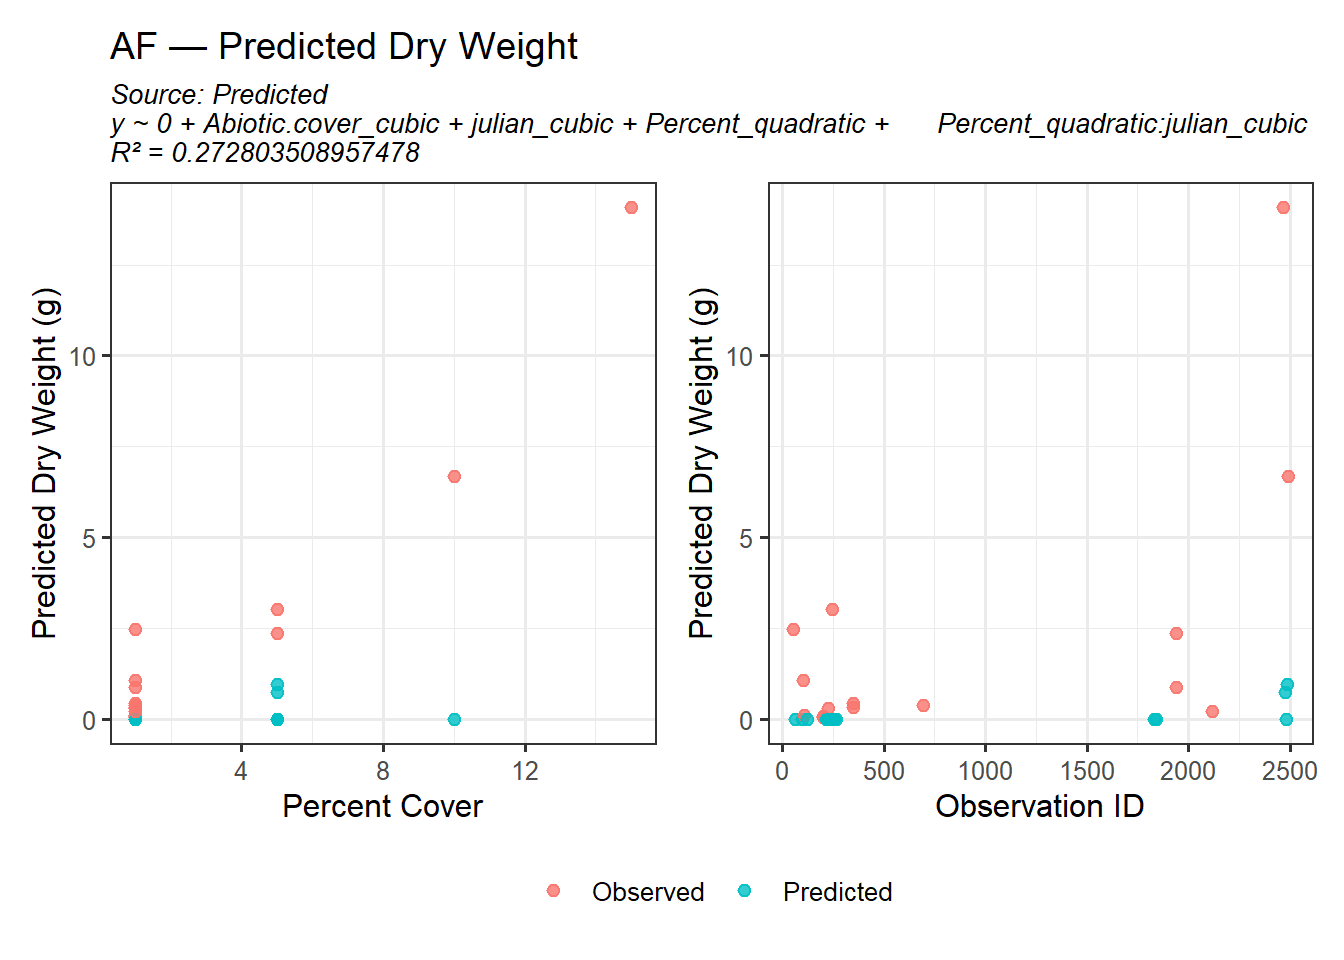
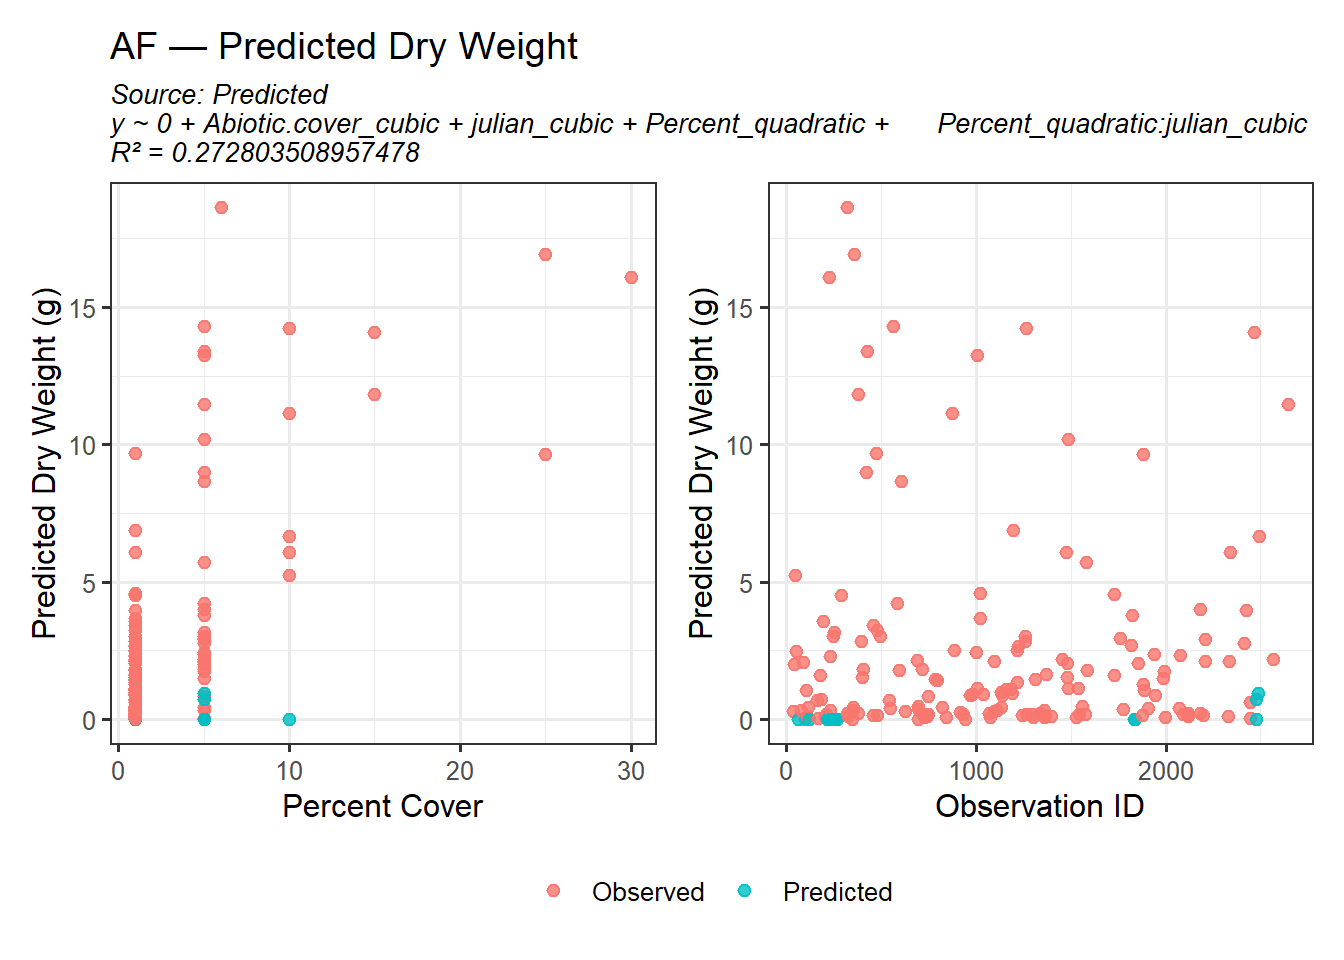
removed outliers in functional groups

diff --git a/docs/posts/post-with-code/edited.biomass.predictions.html b/docs/posts/post-with-code/edited.biomass.predictions.html
@@ -442,72 +442,76 @@ pre > code.sourceCode > span > a:first-child::before { text-decoration: underlin
 <span id="cb4-2"><a href="#cb4-2" aria-hidden="true" tabindex="-1"></a>  <span class="fu">mutate</span>(</span>
 <span id="cb4-3"><a href="#cb4-3" aria-hidden="true" tabindex="-1"></a>    <span class="at">pred_source =</span> <span class="fu">ifelse</span>(pred_source <span class="sc">==</span> <span class="st">"Model_FunctionalGroup"</span>, <span class="st">"Predicted"</span>, pred_source)</span>
 <span id="cb4-4"><a href="#cb4-4" aria-hidden="true" tabindex="-1"></a>  ) <span class="sc">%&gt;%</span></span>
-<span id="cb4-5"><a href="#cb4-5" aria-hidden="true" tabindex="-1"></a>  <span class="fu">filter</span>(Spp <span class="sc">%in%</span> <span class="fu">c</span>(</span>
-<span id="cb4-6"><a href="#cb4-6" aria-hidden="true" tabindex="-1"></a>    <span class="st">"HOUM_ENTIRE"</span>, <span class="st">"COPA3_ENTIRE"</span>, <span class="st">"EQHY_ENTIRE"</span>, <span class="st">"HYCA4_ENTIRE"</span>,</span>
-<span id="cb4-7"><a href="#cb4-7" aria-hidden="true" tabindex="-1"></a>    <span class="st">"PHHE2_ENTIRE"</span>, <span class="st">"MIGU_ENTIRE"</span>, <span class="st">"CLLI2_ENTIRE"</span>, <span class="st">"POGLG4_ENTIRE"</span>,</span>
-<span id="cb4-8"><a href="#cb4-8" aria-hidden="true" tabindex="-1"></a>    <span class="st">"SANI5_ENTIRE"</span>, <span class="st">"VETH_ENTIRE"</span></span>
-<span id="cb4-9"><a href="#cb4-9" aria-hidden="true" tabindex="-1"></a>  )) <span class="sc">%&gt;%</span></span>
-<span id="cb4-10"><a href="#cb4-10" aria-hidden="true" tabindex="-1"></a>  <span class="fu">arrange</span>(FunctionalGroup)</span>
-<span id="cb4-11"><a href="#cb4-11" aria-hidden="true" tabindex="-1"></a></span>
-<span id="cb4-12"><a href="#cb4-12" aria-hidden="true" tabindex="-1"></a>plot_fg_predictions <span class="ot">&lt;-</span> <span class="cf">function</span>(fg_name, predictions, <span class="at">save_plots =</span> <span class="cn">FALSE</span>) {</span>
-<span id="cb4-13"><a href="#cb4-13" aria-hidden="true" tabindex="-1"></a>  </span>
-<span id="cb4-14"><a href="#cb4-14" aria-hidden="true" tabindex="-1"></a>  <span class="co"># Filter for this functional group</span></span>
-<span id="cb4-15"><a href="#cb4-15" aria-hidden="true" tabindex="-1"></a>  dat <span class="ot">&lt;-</span> predictions <span class="sc">%&gt;%</span> <span class="fu">filter</span>(FunctionalGroup <span class="sc">==</span> fg_name)</span>
-<span id="cb4-16"><a href="#cb4-16" aria-hidden="true" tabindex="-1"></a>  </span>
-<span id="cb4-17"><a href="#cb4-17" aria-hidden="true" tabindex="-1"></a>  <span class="co"># Prepare annotation text</span></span>
-<span id="cb4-18"><a href="#cb4-18" aria-hidden="true" tabindex="-1"></a>  formula_text <span class="ot">&lt;-</span> <span class="fu">unique</span>(dat<span class="sc">$</span>formula[dat<span class="sc">$</span>pred_source <span class="sc">==</span> <span class="st">"Predicted"</span>])</span>
-<span id="cb4-19"><a href="#cb4-19" aria-hidden="true" tabindex="-1"></a>  r2_text      <span class="ot">&lt;-</span> <span class="fu">unique</span>(dat<span class="sc">$</span>R2[dat<span class="sc">$</span>pred_source <span class="sc">==</span> <span class="st">"Predicted"</span>])</span>
-<span id="cb4-20"><a href="#cb4-20" aria-hidden="true" tabindex="-1"></a>  pred_source_text <span class="ot">&lt;-</span> <span class="fu">unique</span>(dat<span class="sc">$</span>pred_source[dat<span class="sc">$</span>pred_source <span class="sc">==</span> <span class="st">"Predicted"</span>])</span>
-<span id="cb4-21"><a href="#cb4-21" aria-hidden="true" tabindex="-1"></a>  </span>
-<span id="cb4-22"><a href="#cb4-22" aria-hidden="true" tabindex="-1"></a>  annotation_text <span class="ot">&lt;-</span> <span class="cf">if</span> (<span class="fu">length</span>(formula_text) <span class="sc">&gt;</span> <span class="dv">0</span>) {</span>
-<span id="cb4-23"><a href="#cb4-23" aria-hidden="true" tabindex="-1"></a>    <span class="fu">glue</span>(<span class="st">"Source: {pred_source_text}</span><span class="sc">\n</span><span class="st">{formula_text}</span><span class="sc">\n</span><span class="st">R² = {r2_text}"</span>)</span>
-<span id="cb4-24"><a href="#cb4-24" aria-hidden="true" tabindex="-1"></a>  } <span class="cf">else</span> {</span>
-<span id="cb4-25"><a href="#cb4-25" aria-hidden="true" tabindex="-1"></a>    <span class="st">""</span></span>
-<span id="cb4-26"><a href="#cb4-26" aria-hidden="true" tabindex="-1"></a>  }</span>
-<span id="cb4-27"><a href="#cb4-27" aria-hidden="true" tabindex="-1"></a>  </span>
-<span id="cb4-28"><a href="#cb4-28" aria-hidden="true" tabindex="-1"></a>  <span class="co"># Base theme</span></span>
-<span id="cb4-29"><a href="#cb4-29" aria-hidden="true" tabindex="-1"></a>  base_theme <span class="ot">&lt;-</span> <span class="fu">theme_bw</span>(<span class="at">base_size =</span> <span class="dv">12</span>) <span class="sc">+</span></span>
-<span id="cb4-30"><a href="#cb4-30" aria-hidden="true" tabindex="-1"></a>    <span class="fu">theme</span>(</span>
-<span id="cb4-31"><a href="#cb4-31" aria-hidden="true" tabindex="-1"></a>      <span class="at">legend.title =</span> <span class="fu">element_blank</span>(),</span>
-<span id="cb4-32"><a href="#cb4-32" aria-hidden="true" tabindex="-1"></a>      <span class="at">plot.subtitle =</span> <span class="fu">element_text</span>(<span class="at">size =</span> <span class="dv">10</span>, <span class="at">face =</span> <span class="st">"italic"</span>)</span>
-<span id="cb4-33"><a href="#cb4-33" aria-hidden="true" tabindex="-1"></a>    )</span>
-<span id="cb4-34"><a href="#cb4-34" aria-hidden="true" tabindex="-1"></a>  </span>
-<span id="cb4-35"><a href="#cb4-35" aria-hidden="true" tabindex="-1"></a>  <span class="co"># Plot 1: pred_DryWeight vs Percent</span></span>
-<span id="cb4-36"><a href="#cb4-36" aria-hidden="true" tabindex="-1"></a>  p1 <span class="ot">&lt;-</span> <span class="fu">ggplot</span>(dat, <span class="fu">aes</span>(<span class="at">x =</span> Percent, <span class="at">y =</span> pred_DryWeight, <span class="at">color =</span> pred_source)) <span class="sc">+</span></span>
-<span id="cb4-37"><a href="#cb4-37" aria-hidden="true" tabindex="-1"></a>    <span class="fu">geom_point</span>(<span class="at">size =</span> <span class="dv">2</span>, <span class="at">alpha =</span> <span class="fl">0.8</span>) <span class="sc">+</span></span>
-<span id="cb4-38"><a href="#cb4-38" aria-hidden="true" tabindex="-1"></a>    <span class="fu">labs</span>(</span>
-<span id="cb4-39"><a href="#cb4-39" aria-hidden="true" tabindex="-1"></a>      <span class="at">title =</span> <span class="fu">glue</span>(<span class="st">"{fg_name} — Predicted Dry Weight"</span>),</span>
-<span id="cb4-40"><a href="#cb4-40" aria-hidden="true" tabindex="-1"></a>      <span class="at">subtitle =</span> annotation_text,</span>
-<span id="cb4-41"><a href="#cb4-41" aria-hidden="true" tabindex="-1"></a>      <span class="at">x =</span> <span class="st">"Percent Cover"</span>,</span>
-<span id="cb4-42"><a href="#cb4-42" aria-hidden="true" tabindex="-1"></a>      <span class="at">y =</span> <span class="st">"Predicted Dry Weight (g)"</span></span>
-<span id="cb4-43"><a href="#cb4-43" aria-hidden="true" tabindex="-1"></a>    ) <span class="sc">+</span></span>
-<span id="cb4-44"><a href="#cb4-44" aria-hidden="true" tabindex="-1"></a>    base_theme</span>
-<span id="cb4-45"><a href="#cb4-45" aria-hidden="true" tabindex="-1"></a>  </span>
-<span id="cb4-46"><a href="#cb4-46" aria-hidden="true" tabindex="-1"></a>  <span class="co"># Plot 2: pred_DryWeight vs ID</span></span>
-<span id="cb4-47"><a href="#cb4-47" aria-hidden="true" tabindex="-1"></a>  p2 <span class="ot">&lt;-</span> <span class="fu">ggplot</span>(dat, <span class="fu">aes</span>(<span class="at">x =</span> ID, <span class="at">y =</span> pred_DryWeight, <span class="at">color =</span> pred_source)) <span class="sc">+</span></span>
-<span id="cb4-48"><a href="#cb4-48" aria-hidden="true" tabindex="-1"></a>    <span class="fu">geom_point</span>(<span class="at">size =</span> <span class="dv">2</span>, <span class="at">alpha =</span> <span class="fl">0.8</span>) <span class="sc">+</span></span>
-<span id="cb4-49"><a href="#cb4-49" aria-hidden="true" tabindex="-1"></a>    <span class="fu">labs</span>(</span>
-<span id="cb4-50"><a href="#cb4-50" aria-hidden="true" tabindex="-1"></a>      <span class="at">x =</span> <span class="st">"Observation ID"</span>,</span>
-<span id="cb4-51"><a href="#cb4-51" aria-hidden="true" tabindex="-1"></a>      <span class="at">y =</span> <span class="st">"Predicted Dry Weight (g)"</span></span>
-<span id="cb4-52"><a href="#cb4-52" aria-hidden="true" tabindex="-1"></a>    ) <span class="sc">+</span></span>
-<span id="cb4-53"><a href="#cb4-53" aria-hidden="true" tabindex="-1"></a>    base_theme</span>
-<span id="cb4-54"><a href="#cb4-54" aria-hidden="true" tabindex="-1"></a>  </span>
-<span id="cb4-55"><a href="#cb4-55" aria-hidden="true" tabindex="-1"></a>  <span class="co"># Combine plots</span></span>
-<span id="cb4-56"><a href="#cb4-56" aria-hidden="true" tabindex="-1"></a>  combined_plot <span class="ot">&lt;-</span> p1 <span class="sc">+</span> p2 <span class="sc">+</span> </span>
-<span id="cb4-57"><a href="#cb4-57" aria-hidden="true" tabindex="-1"></a>    <span class="fu">plot_layout</span>(<span class="at">guides =</span> <span class="st">"collect"</span>) <span class="sc">&amp;</span> </span>
-<span id="cb4-58"><a href="#cb4-58" aria-hidden="true" tabindex="-1"></a>    <span class="fu">theme</span>(<span class="at">legend.position =</span> <span class="st">"bottom"</span>, <span class="at">legend.direction =</span> <span class="st">"horizontal"</span>)</span>
-<span id="cb4-59"><a href="#cb4-59" aria-hidden="true" tabindex="-1"></a>  </span>
-<span id="cb4-60"><a href="#cb4-60" aria-hidden="true" tabindex="-1"></a>  <span class="co"># Save or display</span></span>
-<span id="cb4-61"><a href="#cb4-61" aria-hidden="true" tabindex="-1"></a>  <span class="cf">if</span> (save_plots) {</span>
-<span id="cb4-62"><a href="#cb4-62" aria-hidden="true" tabindex="-1"></a>    <span class="fu">ggsave</span>(<span class="fu">glue</span>(<span class="st">"plots/{fg_name}_pred_plot.png"</span>),</span>
-<span id="cb4-63"><a href="#cb4-63" aria-hidden="true" tabindex="-1"></a>           combined_plot, <span class="at">width =</span> <span class="dv">10</span>, <span class="at">height =</span> <span class="dv">5</span>, <span class="at">dpi =</span> <span class="dv">300</span>)</span>
-<span id="cb4-64"><a href="#cb4-64" aria-hidden="true" tabindex="-1"></a>  } <span class="cf">else</span> {</span>
-<span id="cb4-65"><a href="#cb4-65" aria-hidden="true" tabindex="-1"></a>    <span class="fu">print</span>(combined_plot)</span>
-<span id="cb4-66"><a href="#cb4-66" aria-hidden="true" tabindex="-1"></a>  }</span>
-<span id="cb4-67"><a href="#cb4-67" aria-hidden="true" tabindex="-1"></a>}</span>
-<span id="cb4-68"><a href="#cb4-68" aria-hidden="true" tabindex="-1"></a></span>
-<span id="cb4-69"><a href="#cb4-69" aria-hidden="true" tabindex="-1"></a><span class="fu">walk</span>(<span class="fu">unique</span>(fg_predictions_filtered<span class="sc">$</span>FunctionalGroup),</span>
-<span id="cb4-70"><a href="#cb4-70" aria-hidden="true" tabindex="-1"></a>     <span class="sc">~</span><span class="fu">plot_fg_predictions</span>(.x, fg_predictions_filtered))</span></code><button title="Copy to Clipboard" class="code-copy-button"><i class="bi"></i></button></pre></div>
+<span id="cb4-5"><a href="#cb4-5" aria-hidden="true" tabindex="-1"></a>  <span class="fu">filter</span>(</span>
+<span id="cb4-6"><a href="#cb4-6" aria-hidden="true" tabindex="-1"></a>    (pred_source <span class="sc">==</span> <span class="st">"Observed"</span> <span class="sc">|</span> </span>
+<span id="cb4-7"><a href="#cb4-7" aria-hidden="true" tabindex="-1"></a>     (pred_source <span class="sc">==</span> <span class="st">"Predicted"</span> <span class="sc">&amp;</span> Spp <span class="sc">%in%</span> <span class="fu">c</span>(</span>
+<span id="cb4-8"><a href="#cb4-8" aria-hidden="true" tabindex="-1"></a>       <span class="st">"HOUM_ENTIRE"</span>, <span class="st">"COPA3_ENTIRE"</span>, <span class="st">"EQHY_ENTIRE"</span>, <span class="st">"HYCA4_ENTIRE"</span>,</span>
+<span id="cb4-9"><a href="#cb4-9" aria-hidden="true" tabindex="-1"></a>       <span class="st">"PHHE2_ENTIRE"</span>, <span class="st">"MIGU_ENTIRE"</span>, <span class="st">"CLLI2_ENTIRE"</span>, <span class="st">"POGLG4_ENTIRE"</span>,</span>
+<span id="cb4-10"><a href="#cb4-10" aria-hidden="true" tabindex="-1"></a>       <span class="st">"SANI5_ENTIRE"</span>, <span class="st">"VETH_ENTIRE"</span></span>
+<span id="cb4-11"><a href="#cb4-11" aria-hidden="true" tabindex="-1"></a>     ))) <span class="sc">&amp;</span></span>
+<span id="cb4-12"><a href="#cb4-12" aria-hidden="true" tabindex="-1"></a>    <span class="sc">!</span>ID <span class="sc">%in%</span> <span class="fu">c</span>(<span class="dv">2178</span>, <span class="dv">2087</span>)</span>
+<span id="cb4-13"><a href="#cb4-13" aria-hidden="true" tabindex="-1"></a>  ) <span class="sc">%&gt;%</span></span>
+<span id="cb4-14"><a href="#cb4-14" aria-hidden="true" tabindex="-1"></a>  <span class="fu">arrange</span>(FunctionalGroup)</span>
+<span id="cb4-15"><a href="#cb4-15" aria-hidden="true" tabindex="-1"></a></span>
+<span id="cb4-16"><a href="#cb4-16" aria-hidden="true" tabindex="-1"></a>plot_fg_predictions <span class="ot">&lt;-</span> <span class="cf">function</span>(fg_name, predictions, <span class="at">save_plots =</span> <span class="cn">FALSE</span>) {</span>
+<span id="cb4-17"><a href="#cb4-17" aria-hidden="true" tabindex="-1"></a>  </span>
+<span id="cb4-18"><a href="#cb4-18" aria-hidden="true" tabindex="-1"></a>  <span class="co"># Filter for this functional group</span></span>
+<span id="cb4-19"><a href="#cb4-19" aria-hidden="true" tabindex="-1"></a>  dat <span class="ot">&lt;-</span> predictions <span class="sc">%&gt;%</span> <span class="fu">filter</span>(FunctionalGroup <span class="sc">==</span> fg_name)</span>
+<span id="cb4-20"><a href="#cb4-20" aria-hidden="true" tabindex="-1"></a>  </span>
+<span id="cb4-21"><a href="#cb4-21" aria-hidden="true" tabindex="-1"></a>  <span class="co"># Prepare annotation text</span></span>
+<span id="cb4-22"><a href="#cb4-22" aria-hidden="true" tabindex="-1"></a>  formula_text <span class="ot">&lt;-</span> <span class="fu">unique</span>(dat<span class="sc">$</span>formula[dat<span class="sc">$</span>pred_source <span class="sc">==</span> <span class="st">"Predicted"</span>])</span>
+<span id="cb4-23"><a href="#cb4-23" aria-hidden="true" tabindex="-1"></a>  r2_text      <span class="ot">&lt;-</span> <span class="fu">unique</span>(dat<span class="sc">$</span>R2[dat<span class="sc">$</span>pred_source <span class="sc">==</span> <span class="st">"Predicted"</span>])</span>
+<span id="cb4-24"><a href="#cb4-24" aria-hidden="true" tabindex="-1"></a>  pred_source_text <span class="ot">&lt;-</span> <span class="fu">unique</span>(dat<span class="sc">$</span>pred_source[dat<span class="sc">$</span>pred_source <span class="sc">==</span> <span class="st">"Predicted"</span>])</span>
+<span id="cb4-25"><a href="#cb4-25" aria-hidden="true" tabindex="-1"></a>  </span>
+<span id="cb4-26"><a href="#cb4-26" aria-hidden="true" tabindex="-1"></a>  annotation_text <span class="ot">&lt;-</span> <span class="cf">if</span> (<span class="fu">length</span>(formula_text) <span class="sc">&gt;</span> <span class="dv">0</span>) {</span>
+<span id="cb4-27"><a href="#cb4-27" aria-hidden="true" tabindex="-1"></a>    <span class="fu">glue</span>(<span class="st">"Source: {pred_source_text}</span><span class="sc">\n</span><span class="st">{formula_text}</span><span class="sc">\n</span><span class="st">R² = {r2_text}"</span>)</span>
+<span id="cb4-28"><a href="#cb4-28" aria-hidden="true" tabindex="-1"></a>  } <span class="cf">else</span> {</span>
+<span id="cb4-29"><a href="#cb4-29" aria-hidden="true" tabindex="-1"></a>    <span class="st">""</span></span>
+<span id="cb4-30"><a href="#cb4-30" aria-hidden="true" tabindex="-1"></a>  }</span>
+<span id="cb4-31"><a href="#cb4-31" aria-hidden="true" tabindex="-1"></a>  </span>
+<span id="cb4-32"><a href="#cb4-32" aria-hidden="true" tabindex="-1"></a>  <span class="co"># Base theme</span></span>
+<span id="cb4-33"><a href="#cb4-33" aria-hidden="true" tabindex="-1"></a>  base_theme <span class="ot">&lt;-</span> <span class="fu">theme_bw</span>(<span class="at">base_size =</span> <span class="dv">12</span>) <span class="sc">+</span></span>
+<span id="cb4-34"><a href="#cb4-34" aria-hidden="true" tabindex="-1"></a>    <span class="fu">theme</span>(</span>
+<span id="cb4-35"><a href="#cb4-35" aria-hidden="true" tabindex="-1"></a>      <span class="at">legend.title =</span> <span class="fu">element_blank</span>(),</span>
+<span id="cb4-36"><a href="#cb4-36" aria-hidden="true" tabindex="-1"></a>      <span class="at">plot.subtitle =</span> <span class="fu">element_text</span>(<span class="at">size =</span> <span class="dv">10</span>, <span class="at">face =</span> <span class="st">"italic"</span>)</span>
+<span id="cb4-37"><a href="#cb4-37" aria-hidden="true" tabindex="-1"></a>    )</span>
+<span id="cb4-38"><a href="#cb4-38" aria-hidden="true" tabindex="-1"></a>  </span>
+<span id="cb4-39"><a href="#cb4-39" aria-hidden="true" tabindex="-1"></a>  <span class="co"># Plot 1: pred_DryWeight vs Percent</span></span>
+<span id="cb4-40"><a href="#cb4-40" aria-hidden="true" tabindex="-1"></a>  p1 <span class="ot">&lt;-</span> <span class="fu">ggplot</span>(dat, <span class="fu">aes</span>(<span class="at">x =</span> Percent, <span class="at">y =</span> pred_DryWeight, <span class="at">color =</span> pred_source)) <span class="sc">+</span></span>
+<span id="cb4-41"><a href="#cb4-41" aria-hidden="true" tabindex="-1"></a>    <span class="fu">geom_point</span>(<span class="at">size =</span> <span class="dv">2</span>, <span class="at">alpha =</span> <span class="fl">0.8</span>) <span class="sc">+</span></span>
+<span id="cb4-42"><a href="#cb4-42" aria-hidden="true" tabindex="-1"></a>    <span class="fu">labs</span>(</span>
+<span id="cb4-43"><a href="#cb4-43" aria-hidden="true" tabindex="-1"></a>      <span class="at">title =</span> <span class="fu">glue</span>(<span class="st">"{fg_name} — Predicted Dry Weight"</span>),</span>
+<span id="cb4-44"><a href="#cb4-44" aria-hidden="true" tabindex="-1"></a>      <span class="at">subtitle =</span> annotation_text,</span>
+<span id="cb4-45"><a href="#cb4-45" aria-hidden="true" tabindex="-1"></a>      <span class="at">x =</span> <span class="st">"Percent Cover"</span>,</span>
+<span id="cb4-46"><a href="#cb4-46" aria-hidden="true" tabindex="-1"></a>      <span class="at">y =</span> <span class="st">"Predicted Dry Weight (g)"</span></span>
+<span id="cb4-47"><a href="#cb4-47" aria-hidden="true" tabindex="-1"></a>    ) <span class="sc">+</span></span>
+<span id="cb4-48"><a href="#cb4-48" aria-hidden="true" tabindex="-1"></a>    base_theme</span>
+<span id="cb4-49"><a href="#cb4-49" aria-hidden="true" tabindex="-1"></a>  </span>
+<span id="cb4-50"><a href="#cb4-50" aria-hidden="true" tabindex="-1"></a>  <span class="co"># Plot 2: pred_DryWeight vs ID</span></span>
+<span id="cb4-51"><a href="#cb4-51" aria-hidden="true" tabindex="-1"></a>  p2 <span class="ot">&lt;-</span> <span class="fu">ggplot</span>(dat, <span class="fu">aes</span>(<span class="at">x =</span> ID, <span class="at">y =</span> pred_DryWeight, <span class="at">color =</span> pred_source)) <span class="sc">+</span></span>
+<span id="cb4-52"><a href="#cb4-52" aria-hidden="true" tabindex="-1"></a>    <span class="fu">geom_point</span>(<span class="at">size =</span> <span class="dv">2</span>, <span class="at">alpha =</span> <span class="fl">0.8</span>) <span class="sc">+</span></span>
+<span id="cb4-53"><a href="#cb4-53" aria-hidden="true" tabindex="-1"></a>    <span class="fu">labs</span>(</span>
+<span id="cb4-54"><a href="#cb4-54" aria-hidden="true" tabindex="-1"></a>      <span class="at">x =</span> <span class="st">"Observation ID"</span>,</span>
+<span id="cb4-55"><a href="#cb4-55" aria-hidden="true" tabindex="-1"></a>      <span class="at">y =</span> <span class="st">"Predicted Dry Weight (g)"</span></span>
+<span id="cb4-56"><a href="#cb4-56" aria-hidden="true" tabindex="-1"></a>    ) <span class="sc">+</span></span>
+<span id="cb4-57"><a href="#cb4-57" aria-hidden="true" tabindex="-1"></a>    base_theme</span>
+<span id="cb4-58"><a href="#cb4-58" aria-hidden="true" tabindex="-1"></a>  </span>
+<span id="cb4-59"><a href="#cb4-59" aria-hidden="true" tabindex="-1"></a>  <span class="co"># Combine plots</span></span>
+<span id="cb4-60"><a href="#cb4-60" aria-hidden="true" tabindex="-1"></a>  combined_plot <span class="ot">&lt;-</span> p1 <span class="sc">+</span> p2 <span class="sc">+</span> </span>
+<span id="cb4-61"><a href="#cb4-61" aria-hidden="true" tabindex="-1"></a>    <span class="fu">plot_layout</span>(<span class="at">guides =</span> <span class="st">"collect"</span>) <span class="sc">&amp;</span> </span>
+<span id="cb4-62"><a href="#cb4-62" aria-hidden="true" tabindex="-1"></a>    <span class="fu">theme</span>(<span class="at">legend.position =</span> <span class="st">"bottom"</span>, <span class="at">legend.direction =</span> <span class="st">"horizontal"</span>)</span>
+<span id="cb4-63"><a href="#cb4-63" aria-hidden="true" tabindex="-1"></a>  </span>
+<span id="cb4-64"><a href="#cb4-64" aria-hidden="true" tabindex="-1"></a>  <span class="co"># Save or display</span></span>
+<span id="cb4-65"><a href="#cb4-65" aria-hidden="true" tabindex="-1"></a>  <span class="cf">if</span> (save_plots) {</span>
+<span id="cb4-66"><a href="#cb4-66" aria-hidden="true" tabindex="-1"></a>    <span class="fu">ggsave</span>(<span class="fu">glue</span>(<span class="st">"plots/{fg_name}_pred_plot.png"</span>),</span>
+<span id="cb4-67"><a href="#cb4-67" aria-hidden="true" tabindex="-1"></a>           combined_plot, <span class="at">width =</span> <span class="dv">10</span>, <span class="at">height =</span> <span class="dv">5</span>, <span class="at">dpi =</span> <span class="dv">300</span>)</span>
+<span id="cb4-68"><a href="#cb4-68" aria-hidden="true" tabindex="-1"></a>  } <span class="cf">else</span> {</span>
+<span id="cb4-69"><a href="#cb4-69" aria-hidden="true" tabindex="-1"></a>    <span class="fu">print</span>(combined_plot)</span>
+<span id="cb4-70"><a href="#cb4-70" aria-hidden="true" tabindex="-1"></a>  }</span>
+<span id="cb4-71"><a href="#cb4-71" aria-hidden="true" tabindex="-1"></a>}</span>
+<span id="cb4-72"><a href="#cb4-72" aria-hidden="true" tabindex="-1"></a></span>
+<span id="cb4-73"><a href="#cb4-73" aria-hidden="true" tabindex="-1"></a><span class="fu">walk</span>(<span class="fu">unique</span>(fg_predictions_filtered<span class="sc">$</span>FunctionalGroup),</span>
+<span id="cb4-74"><a href="#cb4-74" aria-hidden="true" tabindex="-1"></a>     <span class="sc">~</span><span class="fu">plot_fg_predictions</span>(.x, fg_predictions_filtered))</span></code><button title="Copy to Clipboard" class="code-copy-button"><i class="bi"></i></button></pre></div>
 </details>
 <div class="cell-output-display">
 <div>

diff --git a/docs/index.html b/docs/index.html
@@ -206,7 +206,7 @@ window.Quarto = {
 
 <div class="quarto-listing quarto-listing-container-default" id="listing-listing">
 <div class="list quarto-listing-default">
-<div class="quarto-post image-right" data-index="0" data-listing-date-sort="1763625600000" data-listing-file-modified-sort="1763687418186" data-listing-date-modified-sort="NaN" data-listing-reading-time-sort="6" data-listing-word-count-sort="1183">
+<div class="quarto-post image-right" data-index="0" data-listing-date-sort="1763625600000" data-listing-file-modified-sort="1763688100217" data-listing-date-modified-sort="NaN" data-listing-reading-time-sort="7" data-listing-word-count-sort="1222">
 <div class="thumbnail"><a href="./posts/post-with-code/edited.biomass.predictions.html" class="no-external">
 
 <p class="card-img-top"><img src="posts\post-with-code\edited.biomass.predictions_files\figure-html\unnamed-chunk-2-1.png"  class="thumbnail-image card-img"/></p>
